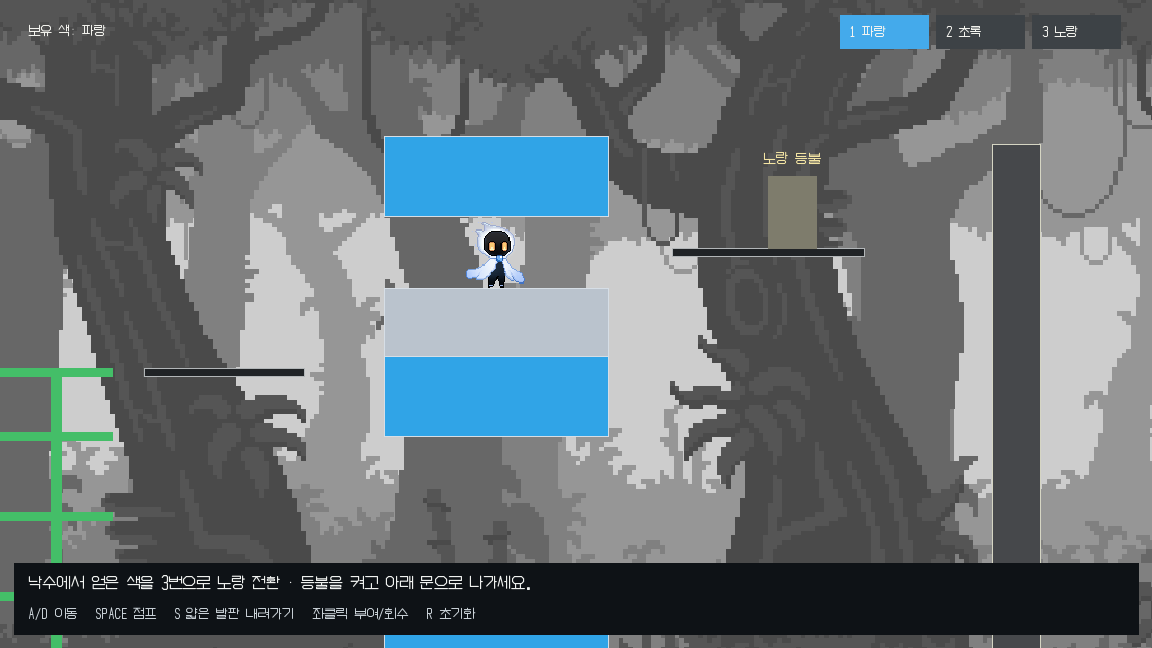
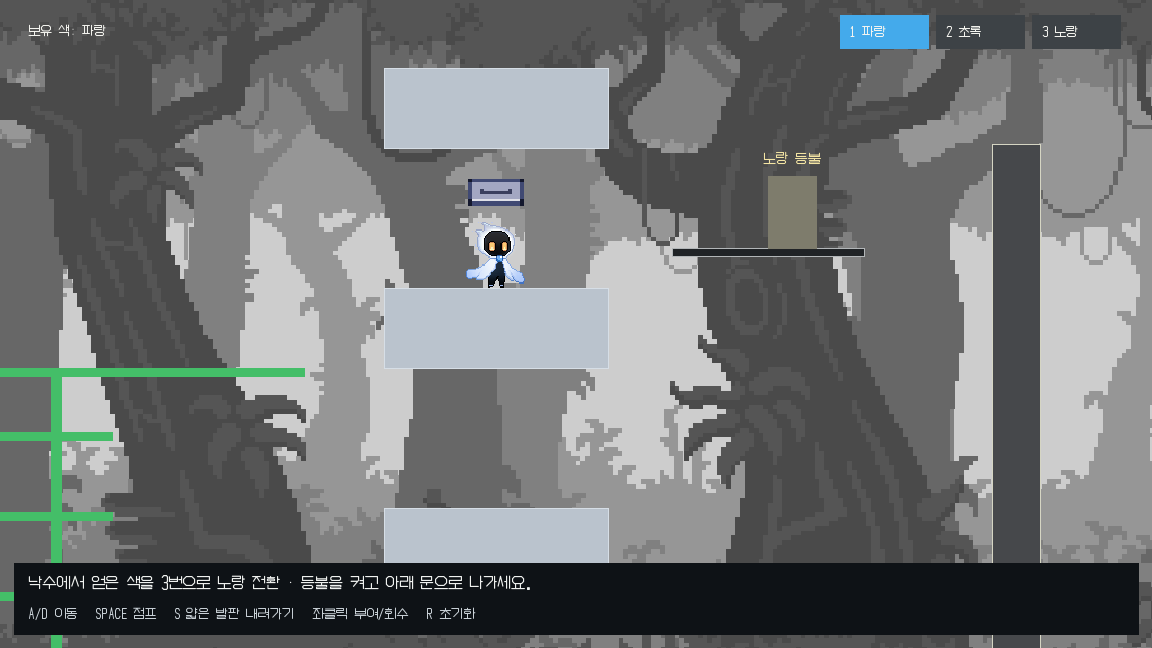
변경된 튜토리얼 동선과 동시 낙수 정지 프리뷰 및 안내 갱신

diff --git a/tools/preview_tutorial.py b/tools/preview_tutorial.py
@@ -59,10 +59,8 @@ def main():
         render(0).save(out / 'tutorial_start.png')
         source = level.color_sources[0]
         colors.interact_at(source.x, source.y, level, player)
-        player.interaction.update(1)
         place(288, 96)
         colors.interact_at(321, 132, level, player)
-        player.interaction.update(1)
         render(0).save(out / 'tutorial_water.png')
 
         player.enter_level(level)
@@ -70,7 +68,6 @@ def main():
         player.color = 'green'
         place(808, 96)
         colors.interact_at(808, 132, level, player)
-        player.interaction.update(1)
         place(808, 336)
         render(600).save(out / 'tutorial_green.png')
 
@@ -79,16 +76,16 @@ def main():
         level.vines[3].active = True
         place(3240, 480)
         drop = level.droplets[0]
-        drop.top, drop.bottom = 560, 480
+        for i, part in enumerate(level.droplets):
+            part.top = 96 + (560 - 96 - i * 220) % 880
+            part.bottom = part.top - 80
         colors.interact_at(drop.left + 1, player.y, level, player)
-        player.interaction.update(1)
         place(3440, 560)
         level.update(0, player)
         render(2944, 200).save(out / 'tutorial_frozen_water.png')
         player.color = 'yellow'
         place(3696, 600)
         colors.interact_at(3713, 636, level, player)
-        player.interaction.update(1)
         render(2944, 200).save(out / 'tutorial_yellow.png')
         place(4040, 96)
         level.update(0, player)
@@ -116,7 +113,9 @@ def main():
         level.vines[3].active = True
         place(3240,480)
         drop = level.droplets[0]
-        drop.top, drop.bottom = 600, 520
+        for i, part in enumerate(level.droplets):
+            part.top = 96 + (600 - 96 - i * 220) % 880
+            part.bottom = part.top - 80
         frames=[]
         for frame in range(36):
             if frame in (10,24):

diff --git a/README.md b/README.md
@@ -5,6 +5,7 @@
 
 `previews/ex.png`의 동선을 참고해 기존 사원 튜토리얼을 새 숲 맵으로 교체했습니다.
 맵은 4096×1008이며 가로·세로로 스크롤합니다. 가장 왼쪽에서 회색 캐릭터로 시작합니다.
+카메라는 캐릭터를 조금 늦게 부드럽게 따라가며, R 또는 실패로 시작점에 돌아갈 때는 즉시 이동합니다.
 배경은 흑백 숲, 일반 지형은 회색 사각형입니다. 색 기믹은 활성 상태에서 색이 표시됩니다.
 도면의 빨간 선은 이동 경로이므로 게임에 그리지 않습니다. 중간의 빨간 발판은 회색 얇은 발판으로 구현했습니다.
 
@@ -21,7 +22,9 @@
 색을 가지고 있지 않을 때는 색 변환으로 새 색을 만들 수 없습니다.
 장치에 색을 부여하면 캐릭터가 회색이 되고, 회수하면 해당 색의 캐릭터가 됩니다.
 색이 들어 있는 대상에서 추출하려면 빈손이어야 하며, 빈 장치에는 호환되는 색만 줄 수 있습니다.
-상호작용 중에도 이동과 점프가 가능해 낙수 타이밍을 맞출 수 있습니다.
+상호작용 애니메이션 없이 클릭 즉시 색이 바뀌며 이동·점프 동작을 유지합니다.
+머리 위에 A/D → SPACE 안내가 표시되고, 얇은 발판 위에서는 S 안내가 표시됩니다.
+이동·점프·내려가기를 실제로 수행하면 해당 안내가 사라집니다.
 
 ## 진행 순서
 
@@ -30,19 +33,21 @@
 3. 통과한 뒤 물에서 색을 회수하고 **2**로 초록으로 바꿉니다.
 4. 첫 덩굴에 초록을 주고 생성된 발판을 점프로 올라 큰 지형에 도착합니다.
 5. 첫 덩굴의 색을 회수하고 점프 구간을 건넌 뒤 얇은 발판에서 **S**로 내려갑니다.
-6. 덩굴 1 → 첫 쉼터 → 색 회수 → 덩굴 2 → 다음 쉼터 → 색 회수 → 덩굴 3 순서로 진행합니다.
-7. 마지막 덩굴에 초록을 둔 채 높은 쉼터로 올라가 빈손으로 낙수의 파랑을 추출합니다.
+6. 덩굴 1 → 덩굴 2 → 덩굴 3 순서로, 점프 중 이전 덩굴에서 색을 회수해 다음 덩굴에 부여합니다.
+7. 마지막 덩굴에 초록을 둔 채 위쪽 끝까지 올라가 빈손으로 낙수의 파랑을 추출합니다.
 8. 파랑을 잃은 낙수는 흑백 고체로 그 자리에 멈춥니다. 이를 밟고 마지막 쉼터로 점프합니다.
 9. 낙수에서 얻은 파랑을 **3**으로 노랑으로 바꾸고 등불에 부여합니다.
 10. 열린 문으로 내려가 가장 오른쪽 출구에 도착하면 완료됩니다.
 
 덩굴은 초록을 부여하면 80픽셀 간격의 점프 발판이 생기고, 회수하면 사라집니다.
-색 회수는 다음 고정 쉼터에 도착한 뒤 하면 안전합니다.
-다음 덩굴은 앞 구간의 쉼터에 도달한 뒤 사용할 수 있으며 화면 아래에 현재 안내가 표시됩니다.
+연속 덩굴 구간의 고정 쉼터 발판을 제거했습니다. 덩굴 끝에서 점프한 뒤 색을 회수·전달해야 합니다.
+이 구간에서 바닥으로 떨어지면 튜토리얼 시작점으로 돌아가고 모든 기믹과 색이 초기화됩니다.
+다음 덩굴은 앞 덩굴의 윗부분에 도달한 뒤 사용할 수 있으며 화면 아래에 현재 안내가 표시됩니다.
 
 낙수는 4개의 파란 사각형이 일정한 간격으로 내려옵니다.
-**파랑 있음 = 움직이는 액체**, **파랑 추출 = 멈춘 흑백 고체 발판**입니다.
-파랑을 다시 부여하면 다시 떨어집니다. 낙수의 고체 발판은 아래에서 통과해 위에 착지할 수 있습니다.
+**파랑 있음 = 움직이는 액체**, **파랑 추출 = 전체가 함께 멈춘 흑백 고체 발판**입니다.
+어느 낙수에서든 파랑을 추출하면 네 개가 동시에 멈추며, 다시 부여하면 모두 다시 떨어집니다.
+낙수의 고체 발판은 아래에서 통과해 위에 착지할 수 있습니다.
 노랑 등불을 켜면 마지막 문이 열리고, 노랑을 회수하면 다시 닫힙니다.
 
 ## 확인
